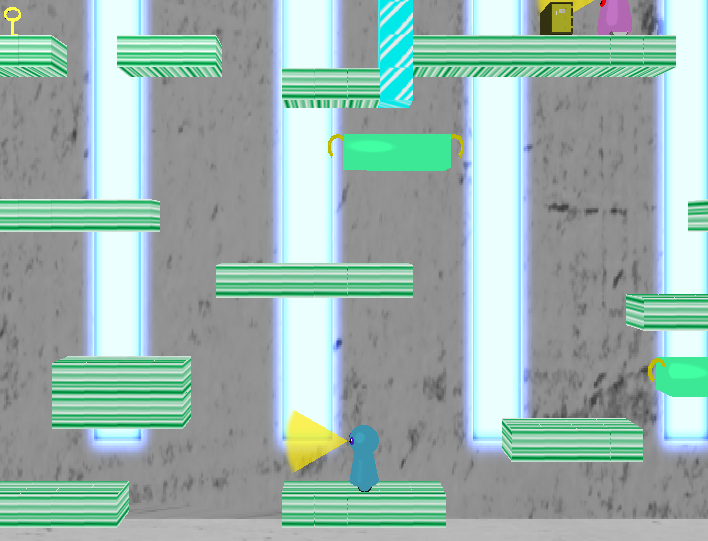
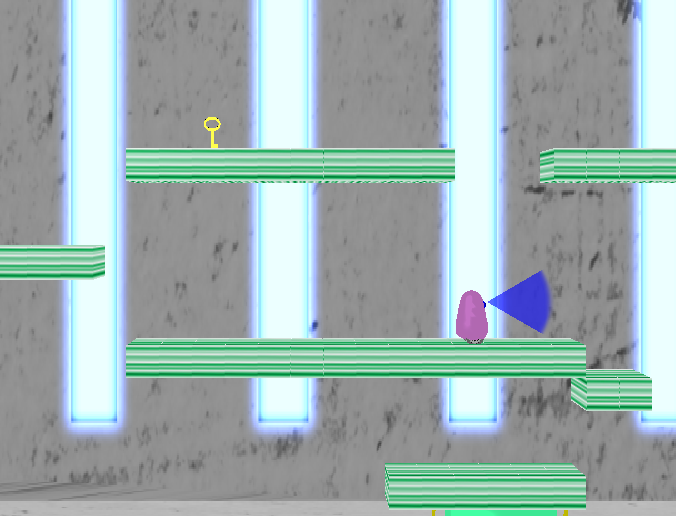
確認するよ

diff --git a/project/EmLookback.cpp b/project/EmLookback.cpp
@@ -102,8 +102,6 @@ void EmLookback::Draw(Position2 offset)
 {
 	ImageMgr& im = ImageMgr::Instance();
 
-
-
 	AnimNowTime += 0.1f;
 	AnimWheelTimer += 1;
 	//現在のアニメーションが最大フレームまでいったらループする
@@ -222,9 +220,9 @@ void EmLookback::Draw(Position2 offset)
 			_modelmgr->Draw(exModelHandle, 0.0f);
 		}
 	}
-	else {
+	/*else {
 		MV1SetTextureGraphHandle(modelhandle, textureIndexEye, im.ImageIdReturn("Enemy_model/teki2/eye2.png", SCENE_RESULT), FALSE);
-	}
+	}*/
 
 	//_emEye.Draw(offset);
 
@@ -650,6 +648,8 @@ void EmLookback::GetClass(HitClass * hit, Player & pl)
 }
 void EmLookback::SetInitPos()
 {
+	ImageMgr& im = ImageMgr::Instance();
+
 	_pos = _initPos;
 	_state = EM_ST_MOVE;
 	modelDirAngle = 0.0f;//初期角度
@@ -657,6 +657,7 @@ void EmLookback::SetInitPos()
 	_individualData.plFoundFlag = false;
 	_rangeLevel = RANGE_1;
 	_individualData._level = ALERT_LEVEL_1;
+	MV1SetTextureGraphHandle(modelhandle, textureIndexEye, im.ImageIdReturn("Enemy_model/teki2/eye2.png", SCENE_RESULT), FALSE);
 }
 //オフセットの為向いている方向を確認します
 void EmLookback::returnDir(Position2 offset)

diff --git a/project/EmAround.cpp b/project/EmAround.cpp
@@ -536,10 +536,6 @@ void EmAround::Draw(Position2 offset)
 			_modelmgr->Draw(exModelHandle, 0.0f);
 		}
 	}
-	else
-	{
-		//MV1SetTextureGraphHandle(modelhandle, textureIndexEye, im.ImageIdReturn("Enemy_model/teki1/eye2.png", SCENE_RESULT), FALSE);
-	}
 
 	tmpPos = offset;
 #ifdef _DEBUG
@@ -645,6 +641,8 @@ ENEMY_STATE& EmAround::GetState()
 }
 void EmAround::SetInitPos()
 {
+	ImageMgr& im = ImageMgr::Instance();
+
 	_pos = _initPos;
 	_state = EM_ST_MOVE;
 	loseSightCnt = 180;
@@ -655,7 +653,7 @@ void EmAround::SetInitPos()
 	else if (_dir == DIR_LEFT) {
 		modelDirAngle = AngleRad(90.0f);
 	}
-
+	MV1SetTextureGraphHandle(modelhandle, textureIndexEye, im.ImageIdReturn("Enemy_model/teki1/eye2.png", SCENE_RESULT), FALSE);
 	_individualData.dataSendFlag = false;
 	_individualData.plFoundFlag = false;
 	ModelDirChangeFlag = false;

diff --git a/project/GameScene.cpp b/project/GameScene.cpp
@@ -344,6 +344,7 @@ void GameScene::PauseUpdata(Input* input)
 
 	PauseSelect(input);
 
+	//ポーズ解除
 	if (key.keybit.START_BUTTON && !lastKey.keybit.START_BUTTON)
 	{
 		dirMoveCnt = 0;
@@ -376,7 +377,7 @@ void GameScene::PauseUpdata(Input* input)
 		DrawCheckUi();//ui表示
 		CheckReTireSelect(input);//入力関連
 
-		if ((key.keybit.A_BUTTON && !lastKey.keybit.A_BUTTON) && ChackFlag)
+		if ((key.keybit.A_BUTTON && !lastKey.keybit.A_BUTTON))
 		{
 			switch (pauseRetireNowNum)
 			{
